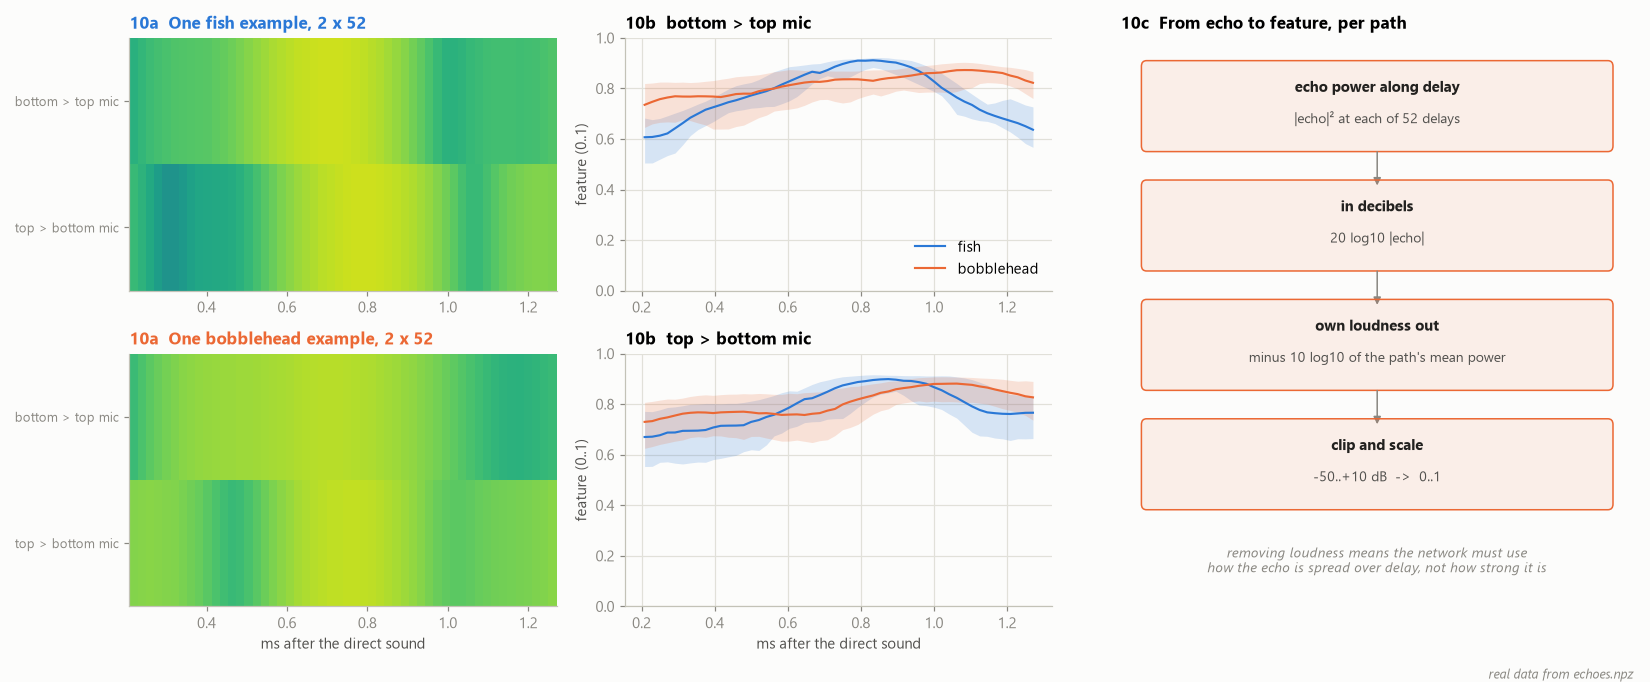
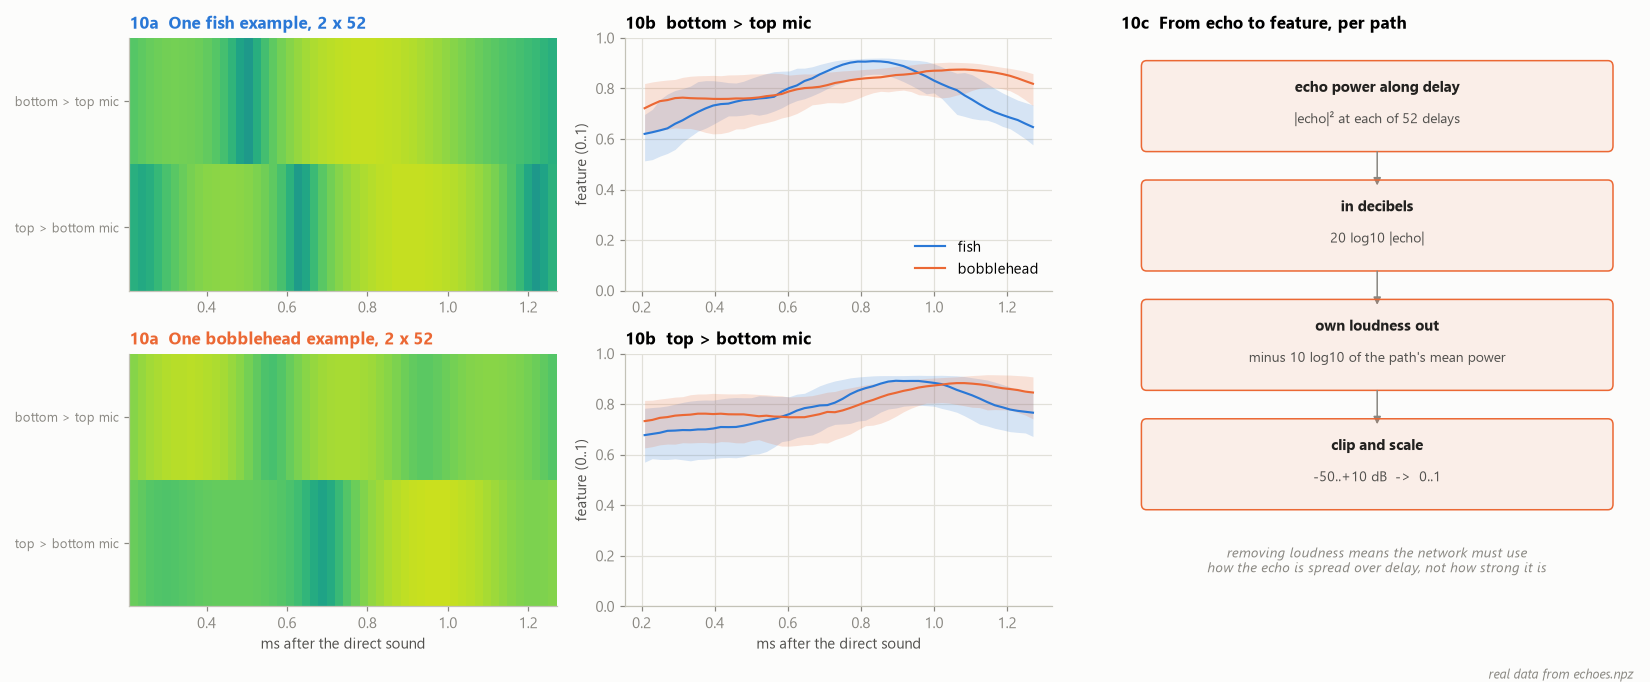
Remake the figures on 26 sets; add a setup diagram
- figures.py: a schematic of the setup from above and from the side
  (docs/figures/0_setup.png), and set counts taken from the data.
- steps_real.py: marks the sets the saved model was not trained on,
  instead of assuming everything after 12 October is new. Run with the
  15-set model, its plot shows the second field test.
- four_ping.py: drop a hardcoded recording count from a printout.
- Every figure redrawn from the 26 sets.

diff --git a/analysis/figures.py b/analysis/figures.py
@@ -1,5 +1,6 @@
 """The figures for the write-up (docs/writeup.md), written to docs/figures/.    python figures.py
 
+0_setup.png                the phone on its stand, its speakers and mics, the object, and the paths the model uses
 1_what_the_mics_hear.png   one cycle of a background recording as the two mics recorded it, and its spectrogram
 2_every_cycle.png          every cycle of the empty scene, the fish and the bobblehead from one set
 3_echo_shape.png           three ways to describe the object's echo that do not depend on when it arrived
@@ -29,6 +30,94 @@ def save(fig, name):
     fig.savefig(OUT / name, dpi=120)
     plt.close(fig)
     print("wrote", OUT / name)
+
+
+def setup():
+    """A schematic of the setup, in centimetres: from above, then from the side."""
+    from matplotlib.patches import FancyArrowPatch, FancyBboxPatch, Polygon
+    from steps import GREEN, GRID, PURPLE
+    CASE, BODY = "#dcdad2", "#3b3a37"
+    fig, ax = plt.subplots(1, 2, figsize=(15, 5.6), gridspec_kw={"width_ratios": [1.45, 1]})
+
+    def arrow(a, p, q, col, lw, ls="-", head=True):
+        a.add_patch(FancyArrowPatch(p, q, arrowstyle="-|>" if head else "-", mutation_scale=12, color=col, lw=lw, ls=ls,
+                                    shrinkA=0, shrinkB=0))
+
+    def span(a, p, q, text, off, rot=0):
+        a.add_patch(FancyArrowPatch(p, q, arrowstyle="<|-|>", mutation_scale=10, color=INK2, lw=1))
+        a.text((p[0] + q[0]) / 2 + off[0], (p[1] + q[1]) / 2 + off[1], text, ha="center", va="center", fontsize=10,
+               color=INK2, rotation=rot)
+
+    def fish(a, cx, cy, length, height):
+        """A fish facing left (towards the phone), centred on (cx, cy)."""
+        from matplotlib.patches import Circle, Ellipse
+        tail = [(cx + 0.28 * length, cy), (cx + 0.52 * length, cy + 0.45 * height), (cx + 0.52 * length, cy - 0.45 * height)]
+        a.add_patch(Polygon(tail, closed=True, fc=BLUE + "55", ec=BLUE, lw=1.3, zorder=3))
+        a.add_patch(Ellipse((cx - 0.08 * length, cy), 0.80 * length, height, fc=BLUE + "33", ec=BLUE, lw=1.3, zorder=4))
+        a.add_patch(Circle((cx - 0.32 * length, cy + 0.12 * height), 0.06 * height, fc=BLUE, ec="none", zorder=5))
+
+    # a: from above. The phone lies along x with its back (y = 0) towards the fish at y = 10, its screen away.
+    a = ax[0]
+    a.add_patch(Polygon([(-3, 0.45), (3, 0.45), (2.4, 2.25), (-2.4, 2.25)], closed=True, fc="none", ec=AXIS, hatch="///", lw=1))
+    a.text(0, 1.35, "kickstand", ha="center", va="center", fontsize=9, color=MUTED,
+           bbox=dict(fc=steps.SURFACE, ec="none", pad=1.5))
+    a.add_patch(FancyBboxPatch((-8.6, -1.45), 17.2, 1.9, boxstyle="round,pad=0,rounding_size=0.45", fc=CASE, ec=AXIS, lw=1))
+    a.add_patch(FancyBboxPatch((-8.1, -1.05), 16.2, 1.05, boxstyle="round,pad=0,rounding_size=0.3", fc=BODY, ec=BODY))
+    a.text(0, -0.52, "Galaxy Note10+, back towards the fish", ha="center", va="center", fontsize=8.5, color="white")
+    a.plot([-7.6, 7.6], [-1.12, -1.12], color=BLUE, lw=2.2, solid_capstyle="round")
+    a.text(0, -1.75, "screen, facing away", ha="center", va="top", fontsize=9, color=BLUE)
+    loud, ear, top_mic, bottom_mic = (8.1, -0.75), (-7.4, -1.12), (-8.1, -0.3), (8.1, -0.25)
+    for p in (loud, ear):
+        a.plot(*p, marker="s", ms=8, color=INK, mec="white", mew=1, zorder=6)
+    for p in (top_mic, bottom_mic):
+        a.plot(*p, marker="o", ms=7, color="white", mec=INK, mew=1.6, zorder=6)
+    a.text(-9.0, -0.4, "top end\nearpiece speaker  ■\ntop mic  ○", ha="right", va="center", fontsize=9.5, color=INK, linespacing=1.5)
+    a.text(9.0, -0.4, "bottom end\n■  loudspeaker\n○  bottom mic", ha="left", va="center", fontsize=9.5, color=INK, linespacing=1.5)
+    fish(a, 0, 10.2, 5.2, 2.2)
+    a.text(0, 11.7, "the fish (or the bobblehead), midway between the ends", ha="center", va="bottom", fontsize=9, color=INK2)
+    hit_a, hit_b = (1.1, 9.2), (-1.1, 9.2)
+    arrow(a, loud, hit_a, PURPLE, 2.6, head=False)
+    arrow(a, hit_a, top_mic, PURPLE, 2.6)
+    arrow(a, ear, hit_b, GREEN, 1.3, ls=(0, (4, 2)), head=False)
+    arrow(a, hit_b, bottom_mic, GREEN, 1.3, ls=(0, (4, 2)))
+    arrow(a, (7.6, 2.9), (-7.6, 2.9), MUTED, 1, ls=(0, (1, 2)))
+    span(a, (-8.1, -5.0), (8.1, -5.0), "16 cm between the ends", (0, -0.6))
+    span(a, (12.6, 0), (12.6, 10.2), "10 cm", (0.7, 0), rot=90)
+    a.plot([], [], color=PURPLE, lw=2.6, label="loudspeaker to the top mic, by way of the fish: the path that does most of the work")
+    a.plot([], [], color=GREEN, lw=1.3, ls=(0, (4, 2)), label="earpiece to the bottom mic, by way of the fish: much weaker")
+    a.plot([], [], color=MUTED, lw=1, ls=(0, (1, 2)), label="the ping straight across the phone, which the echo must be told from")
+    a.legend(loc="upper left", bbox_to_anchor=(0.0, 1.0), fontsize=8.5)
+    a.set(xlim=(-16.5, 16.5), ylim=(-6.6, 16.5), aspect="equal", title="a  From above", anchor="N")
+    a.axis("off")
+
+    # b: from the side. The phone stands on its long edge with its back towards the fish, leaning on the kickstand.
+    a = ax[1]
+    th, t, h = np.radians(14), 1.3, 8.2                      # lean, thickness with the case, height (the phone's width)
+    n, up = np.array([np.cos(th), -np.sin(th)]), np.array([np.sin(th), np.cos(th)])   # screen to back; bottom to top
+    Bk = np.array([0.0, 0.0])                                # the bottom of the back, on the ground
+    Sb = Bk - t * n                                          # the bottom of the screen side
+    a.plot([-6, 14.5], [0, 0], color=AXIS, lw=1.5)
+    P = Bk + 0.45 * h * up
+    a.plot([P[0], P[0] + 2.7], [P[1], 0], color="#a9a69b", lw=4, solid_capstyle="round")
+    a.text(P[0] + 2.0, 2.6, "kickstand", ha="left", fontsize=9, color=MUTED)
+    a.add_patch(Polygon([Sb, Bk, Bk + h * up, Sb + h * up], closed=True, fc=CASE, ec=AXIS, lw=1))
+    inner = [Sb + 0.25 * t * n + 0.25 * up, Sb + 0.75 * t * n + 0.25 * up, Sb + 0.75 * t * n + (h - 0.25) * up,
+             Sb + 0.25 * t * n + (h - 0.25) * up]
+    a.add_patch(Polygon(inner, closed=True, fc=BODY, ec=BODY))
+    s0, s1 = Sb + 0.4 * up, Sb + (h - 0.4) * up
+    a.plot([s0[0], s1[0]], [s0[1], s1[1]], color=BLUE, lw=2.5)
+    mid = (s0 + s1) / 2
+    a.text(mid[0] - 0.55, mid[1], "screen", ha="center", va="center", fontsize=9, color=BLUE, rotation=90 - np.degrees(th))
+    fish(a, 10.4, 1.8, 5.0, 3.0)
+    a.text(10.4, 3.7, "fish", ha="center", va="bottom", fontsize=10, color=INK)
+    span(a, (0.0, -1.1), (10.4, -1.1), "10 cm", (0, -0.6))
+    a.text(15, 9.6, "On its long edge in a Spigen case,\nback towards the fish, leaning on\nthe kickstand. The speakers and mics\nare at the two ends, in and out of the page.",
+           ha="right", va="top", fontsize=9, color=INK2, linespacing=1.4)
+    a.set(xlim=(-7, 15), ylim=(-2.8, 10), aspect="equal", title="b  From the side", anchor="N")
+    a.axis("off")
+    fig.text(0.99, 0.01, "schematic: sizes and positions approximate", ha="right", fontsize=8.5, color=MUTED, style="italic")
+    fig.tight_layout(rect=(0, 0.02, 1, 1))
+    save(fig, "0_setup.png")
 
 
 def what_the_mics_hear():
@@ -197,7 +286,7 @@ def echo_shape():
         k = int(np.argmax(curve < 0.5))
         return 1000 * (k - 1 + (curve[k - 1] - 0.5) / (curve[k - 1] - curve[k])) / 48
 
-    print("figure 3: bottom spk > top mic, all 15 sets at 10 cm")
+    print(f"figure 3: bottom spk > top mic, all {len(ids)} sets at 10 cm")
     print(f"  single point: width {1000 * Sp[0, 0]:.0f} us, share within 0.1 ms of peak {Sp[0, 2]:.2f}, autocorrelation half at {half(Rp[0, 0]):.0f} us, at 0.5 ms {Rp[0, 0, -1]:.2f}")
     for j, o in enumerate(OBJECTS):
         rec = [S[r == k, 0].mean() * 1000 for k in np.unique(r[y == j])]
@@ -246,7 +335,7 @@ def echo_shape():
     a.set(title="c  Two numbers that describe its shape", xlabel="echo width: rms about its middle, µs",
           ylabel="share of its energy within 0.1 ms of its peak")
     a.legend(loc="upper right", fontsize=8.5)
-    fig.text(0.99, 0.005, "bottom speaker > top mic; the real echoes of all 15 sets at 10 cm; lines are medians, bands the 15th to 85th percentile "
+    fig.text(0.99, 0.005, f"bottom speaker > top mic; the real echoes of all {len(ids)} sets at 10 cm; lines are medians, bands the 15th to 85th percentile "
              "of the 0.4 s examples; the dashed line and star are what a single point would give",
              ha="right", fontsize=8.5, color=MUTED, style="italic")
     fig.tight_layout(rect=(0, 0.025, 1, 1))

diff --git a/analysis/steps_real.py b/analysis/steps_real.py
@@ -148,7 +148,7 @@ def echoes(names, sets, new):
     ax[0].set_ylabel("added by the object, dB relative to the direct sound")
     for o in OBJECTS:
         ax[1].plot([], [], color=COLOUR[o], lw=1, label=f"{o}, one line per set")
-        ax[1].plot([], [], color=COLOUR[o], lw=2.2, ls=(0, (4, 1.5)), label=f"{o}, set {', '.join(new)} (new)")
+        ax[1].plot([], [], color=COLOUR[o], lw=2.2, ls=(0, (4, 1.5)), label=f"{o}, the {len(new)} sets the saved model was not trained on")
     ax[1].legend(loc="upper right", fontsize=8.5)
     fig.suptitle("8-9  What each object added to its own background; between the dashed lines is what the network sees",
                  x=0.01, ha="left", fontsize=11, fontweight="bold")
@@ -184,14 +184,15 @@ def guesses(names, sets, new):
     first_new = [i for i, s in enumerate(sets) if s["id"] in new]
     for i in first_new:
         ax.axvspan(i - 0.5, i + 0.5, color=GREEN, alpha=0.1, lw=0)
-        ax.text(i, 1.06, "new: not in\nthe training data", ha="center", fontsize=8.5, color=GREEN)
-    ax.set_xticks(range(n), [s["id"][-4:] for s in sets], fontsize=8.5)
+    if first_new:
+        ax.text((first_new[0] + first_new[-1]) / 2, 1.06, "not in the saved model's training data", ha="center", fontsize=8.5, color=GREEN)
+    ax.set_xticks(range(n), [s["id"][-4:] for s in sets], fontsize=7.5, rotation=90)
     ax.set(xlim=(-0.6, n - 0.4), ylim=(-0.04, 1.14), ylabel="P(fish)", xlabel="set")
-    ax.scatter([], [], marker="D", facecolor="none", edgecolor=INK2, label="phone's answer at the time (earlier model, installed 2026-10-12 20:36), right")
-    ax.scatter([], [], marker="D", facecolor="#d03030", edgecolor=INK2, label="phone's answer at the time (earlier model), wrong")
-    ax.plot([], [], color=INK2, lw=2.4, label="current model in the repo, run on the PC (faded: set was in its training data)")
+    ax.scatter([], [], marker="D", facecolor="none", edgecolor=INK2, label="the phone's answer at the time, from the model then on it: right")
+    ax.scatter([], [], marker="D", facecolor="#d03030", edgecolor=INK2, label="the phone's answer at the time: wrong")
+    ax.plot([], [], color=INK2, lw=2.4, label=f"the saved model, trained on {len(ck['sets'])} sets, run on the PC (faded: set in its training data)")
     ax.legend(loc="center left", fontsize=8.5, bbox_to_anchor=(0, 0.62))
-    ax.set_title("11  Every recording: what the phone said, and what the current model says now")
+    ax.set_title("11  Every recording: what the phone said at the time, and what the saved model says on the PC")
     fig.tight_layout()
     save(fig, "11_guesses.png")
     for sid, o, pc, phone in rows:
@@ -204,11 +205,12 @@ if __name__ == "__main__":
     names, sets = read()
     ids = [s["id"] for s in sets]
     # the folder name gives only the time of day; put the sets in the order they were made
-    order = sorted(range(len(sets)), key=lambda i: next(FOLDER.glob(f"set_*_{ids[i]}_1_background.wav")).stem.split("_")[1] + ids[i])
-    sets = [sets[i] for i in order]
-    new = [s["id"] for s in sets if next(FOLDER.glob(f"set_*_{s['id']}_1_background.wav")).stem.split("_")[1] > "20261012"]
+    sets = sorted(sets, key=lambda s: s["made"])
+    # "new": the sets the saved model (fish_or_bobblehead.pt) was not trained on
+    trained_on = torch.load(steps.Path(__file__).parent / "fish_or_bobblehead.pt", weights_only=False)["sets"]
+    new = [s["id"] for s in sets if s["id"] not in trained_on]
     show = sys.argv[1] if len(sys.argv) > 1 else sets[0]["id"]
-    print(f"{len(sets)} sets; showing the steps on {show}; new since the model: {new}")
+    print(f"{len(sets)} sets; showing the steps on {show}; not in the saved model's training data: {new}")
     raw(show)
     names, direct = profiles(show)
     four_ping(direct, show)

diff --git a/analysis/four_ping.py b/analysis/four_ping.py
@@ -134,7 +134,7 @@ if __name__ == "__main__":
     noise1 = rest["each ping lined up"][0]
     print("  noise alone would be" + "".join(f"{noise1 - 10 * np.log10(b):7.1f}" for b in sizes) + "   (one lined-up ping, divided by the number averaged)")
 
-    print("\n3. Each set held out in turn: recordings right of 30, share of examples right, average P(the right object)")
+    print("\n3. Each set held out in turn: recordings right, share of examples right, average P(the right object)")
     pairs = cross(names)
     configs = [("as now", 4), ("as now", 1), ("as now", 2), ("as now", 3), ("as now", 8),
                ("each ping lined up", 1), ("each ping lined up", 2), ("each ping lined up", 4), ("each ping lined up", 8)]
